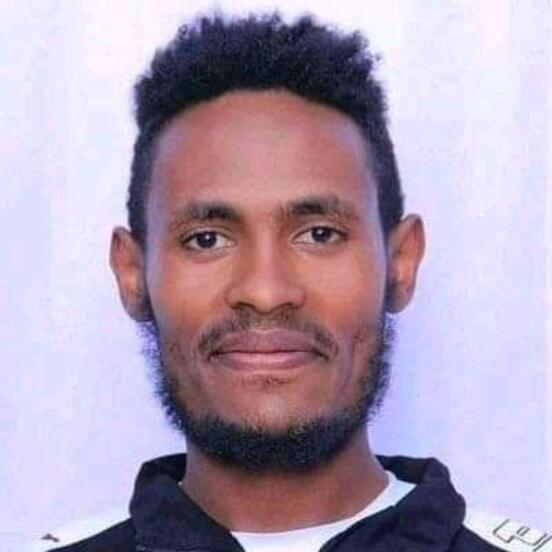
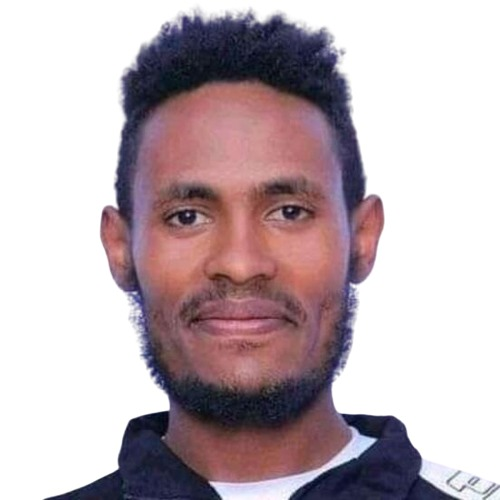
change font and remove image background

diff --git a/src/components/contact.jsx b/src/components/contact.jsx
@@ -31,6 +31,7 @@ export const Contact = (props) => {
           console.log(error.text)
         }
       )
+      e.target.reset()
   }
   return (
     <div>
@@ -127,17 +128,17 @@ export const Contact = (props) => {
               <div className='social'>
                 <ul>
                   <li>
-                    <a href={props.data ? props.data.facebook : '/'} target="_blank">
+                    <a href={props.data ? props.data.facebook : '/'} target="_blank" rel="noreferrer">
                       <i className='fa fa-facebook'></i>
                     </a>
                   </li>
                   <li>
-                    <a href={props.data ? props.data.twitter : '/'} target="_blank">
+                    <a href={props.data ? props.data.twitter : '/'} target="_blank" rel="noreferrer">
                       <i className='fa fa-twitter'></i>
                     </a>
                   </li>
                   <li>
-                    <a href={props.data ? props.data.youtube : '/'} target="_blank">
+                    <a href={props.data ? props.data.youtube : '/'} target="_blank" rel="noreferrer">
                       <i className='fa fa-youtube'></i>
                     </a>
                   </li>

diff --git a/public/css/style.css b/public/css/style.css
@@ -37,7 +37,7 @@ h5 {
 }
 p {
   font-size: 20px;
-  font-family: cursive
+  font-family: Arial, Helvetica, sans-serif
 }
 p.intro {
   margin: 12px 0 0;
@@ -241,8 +241,8 @@ a:focus,
 .intro p {
   color: #fff;
   background-color: #491126;
-  border-radius: 30%;
-  padding: 20px;
+  border-radius: 50%;
+  padding: 50px;
   font-size: 24px;
   font-weight: 300;
   line-height: 30px;
@@ -293,8 +293,8 @@ header .intro-text {
   left: 0;
 }
 #about .about-text li {
-  font-size: 18px;
-  font-family: cursive;
+  font-size: 20px;
+  font-family: Arial, Helvetica, sans-serif;
   margin-bottom: 6px;
   margin-left: 6px;
   list-style: none;

diff --git a/src/components/Team.jsx b/src/components/Team.jsx
@@ -9,6 +9,16 @@ export const Team = (props) => {
           </p>
         </div>
         <div id='row'>
+                  <div className='thumbnail'>
+                    {' '}
+                    <img src='/img/team/01.jpg' alt='...' className='team-img' />
+                    <div className='caption'>
+                      <h4>Abraham Abebe Hirigo</h4>
+                      <p>President</p>
+                    </div>
+                  </div>
+        </div>
+        <div id='row'>
           {props.data
             ? props.data.map((d, i) => (
                 <div key={`${d.name}-${i}`} className='col-md-3 col-sm-6 team'>

diff --git a/src/components/testimonials.jsx b/src/components/testimonials.jsx
@@ -3,7 +3,7 @@ export const Testimonials = (props) => {
     <div id='testimonials'>
       <div className='container'>
         <div className='section-title text-center'>
-          <h2>What people say about us</h2>
+          <h2>What people say about HYA</h2>
         </div>
         <div className='row'>
           {props.data
